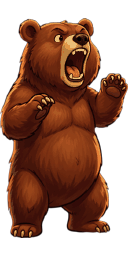
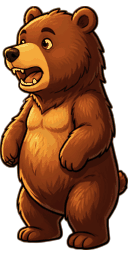
game-card-world v0.56.0: 인스펙터 오른쪽 아래 전신 포트레이트, 포트레이트 4장 다시 생성
카드 아이콘 프롬프트 문구 기반으로 구도만 전신, 왼쪽을 향하게. make_portrait.py 음영 문구를 카드와 같게, --flip 추가.

diff --git a/game-card-world/index.html b/game-card-world/index.html
@@ -262,14 +262,22 @@
   /* 인스펙터 (카드 아님) — 탭한 카드의 모든 정보. 가로가 긴 화면은 오른쪽, 세로가 긴 화면은 하단 */
   /* v0.46.0: 촘촘하게 — 머리 한 줄(그림·이름·태그) + 세 칸 [수치 | 상태 | 조합·출현]. 칸 자리는 모든 카드가 같음 */
   .insp{position:fixed;z-index:2147483050;top:0;right:0;bottom:0;width:var(--insp-w);
-    background:var(--surface);border-left:1px solid var(--hairline);overflow:auto;overscroll-behavior:contain;
+    background:var(--surface);border-left:1px solid var(--hairline);display:flex;flex-direction:column;overflow:hidden;   /* v0.56.0: 스크롤은 .i-body */
     padding:calc(env(safe-area-inset-top,0px) + 10px) calc(env(safe-area-inset-right,0px) + 10px) calc(env(safe-area-inset-bottom,0px) + 10px) 10px;
     color:var(--ink);font-size:11.5px;line-height:1.3;-webkit-user-select:none;user-select:none;}
   @media (orientation: portrait){
     .insp{top:auto;left:0;width:auto;height:var(--insp-h);border-left:none;border-top:1px solid var(--hairline);
       padding:6px 10px calc(env(safe-area-inset-bottom,0px) + 6px);}
   }
-  .i-empty{height:100%;display:flex;align-items:center;justify-content:center;text-align:center;color:var(--muted);font-weight:600;}
+  .i-empty{flex:1;height:100%;display:flex;align-items:center;justify-content:center;text-align:center;color:var(--muted);font-weight:600;}
+  /* 전신 포트레이트 (v0.56.0) — 인스펙터 오른쪽 아래. 정보는 .i-body 안에서 스크롤, 그림은 겹치지 않게 따로 자리 */
+  .i-body{flex:1;min-width:0;min-height:0;overflow:auto;overscroll-behavior:contain;}
+  .i-portrait{flex:none;align-self:flex-end;width:128px;height:256px;margin-top:6px;image-rendering:pixelated;pointer-events:none;-webkit-user-drag:none;}
+  .i-portrait.dying{filter:grayscale(1);}
+  @media (orientation: portrait){
+    .insp{flex-direction:row;}
+    .i-portrait{width:auto;height:100%;max-height:256px;margin:0 0 0 8px;}   /* 하단 막대 높이에 맞춰 줄임 */
+  }
   .i-head{display:flex;align-items:center;flex-wrap:wrap;gap:3px 6px;padding-bottom:5px;border-bottom:1px solid var(--hairline);}
   .i-icon{font-size:24px;line-height:1;flex:none;}
   .i-kind{font-size:10px;font-weight:800;letter-spacing:.04em;color:var(--brand-yellow);}
@@ -323,7 +331,7 @@
 (() => {
 'use strict';
 
-const VERSION = 'v0.55.0';
+const VERSION = 'v0.56.0';
 const STORE = 'card-world-rpg.v2';   // v0.7.0: 기사 상태 추가로 저장 초기화
 
 // ── 카드 정의 ─────────────────────────────────────────
@@ -382,6 +390,8 @@ function iconHtml(t, inline){
 const frameOf = d => d.kind === 'character' ? 'gold' : tagLevel(d, '장소') ? 'stone' : 'wood';
 // v0.52.0: 캐릭터·크리처는 모두 공격·방어·체력을 가짐 (0이어도 카드에 표시)
 const fighter = d => d.kind === 'character' || d.kind === 'creature';
+// 전신 포트레이트가 있는 카드 — 인스펙터 오른쪽 아래 (images/portrait/portrait_<id>.png, v0.56.0)
+const PORTRAITS = new Set(['knight', 'god', 'animal', 'bear']);
 const ICON_TOKEN = /⟦(\w+)⟧/g;
 const ic = t => `⟦${t}⟧`;
 // v0.53.0: 공격·방어·체력 그림 (이모지 ⚔ 🛡 ❤ 대신) — images/icon/ui_<k>.png
@@ -3100,7 +3110,10 @@ function renderInspector(){
   if (!S) return;
   const c = selId != null ? byId(selId) : null;
   if (selId != null && !c) selId = null;                     // 선택한 카드가 사라짐 → 비움
-  const html = c ? inspectorHtml(c) : '<div class="i-empty">카드를 선택하여 상세정보 보기</div>';
+  const dying = c && DEFS[c.type].kind === 'character' && statusOf(c).includes('빈사');
+  const portrait = c && PORTRAITS.has(c.type)
+    ? `<img class="i-portrait${dying ? ' dying' : ''}" src="images/portrait/portrait_${c.type}.png" alt="" draggable="false">` : '';
+  const html = c ? `<div class="i-body">${inspectorHtml(c)}</div>${portrait}` : '<div class="i-empty">카드를 선택하여 상세정보 보기</div>';
   if (html === inspKey) return;                               // 바뀐 게 있을 때만 다시 그림
   inspKey = html;
   insp.innerHTML = html;

diff --git a/game-card-world/tools/make_portrait.py b/game-card-world/tools/make_portrait.py
@@ -28,7 +28,8 @@ KINDS = {
     "character": {"subject": "single character", "bg": "white", "shade": True},
     "creature": {"subject": "single creature", "bg": "black", "shade": False},
 }
-SHADE = ", strong shading with deep defined shadows, high contrast between light and shadow, dramatic directional key light from the upper left"
+# 카드 아이콘(64px) 캐릭터와 같은 음영 문구 — 그림이 카드와 어긋나지 않게
+SHADE = ", strong shading with deep defined shadows, high contrast between light and shadow, dramatic directional key light from the upper left, shadowed side of the face clearly darker"
 BG_COLORS = {"black": "#000000", "white": "#ffffff white"}
 SUFFIX = (
     ", {subject}, centered composition, isolated, full body visible{feet}, clean readable silhouette, "
@@ -47,6 +48,7 @@ def main():
     ap.add_argument("--width", type=int, default=128)
     ap.add_argument("--height", type=int, default=256)
     ap.add_argument("--colors", type=int, default=64, help="팔레트 색 수 (기본 64)")
+    ap.add_argument("--flip", action="store_true", help="결과를 좌우 반전 (왼쪽을 향하게 맞출 때)")
     ap.add_argument("--no-style", action="store_true", help="그림체 머리말을 붙이지 않음")
     ap.add_argument("--force", action="store_true", help="같은 이름 파일이 있으면 덮어씀")
     ap.add_argument("--url", default="http://127.0.0.1:8188")
@@ -78,8 +80,13 @@ def main():
     outputs = run_workflow(a.url, wf)
     PORTRAIT_DIR.mkdir(parents=True, exist_ok=True)
     dest.write_bytes(fetch_image(a.url, outputs["save_portrait"]["images"][0]))
+    if a.flip:
+        from PIL import Image, ImageOps
+        ImageOps.mirror(Image.open(dest)).save(dest)
 
     opts = ["--kind", a.kind]
+    if a.flip:
+        opts.append("--flip")
     if a.bg and a.bg != kind["bg"]:
         opts += ["--bg", a.bg]
     if a.width != 128 or a.height != 256:

diff --git a/game-card-world/docs/아이콘_목록.md b/game-card-world/docs/아이콘_목록.md
@@ -424,35 +424,35 @@ an inanimate object only, no face, no eyes, no arms, no legs, no people, no crea
 <!-- icon:portrait_knight -->
 ### portrait_knight — 기사
 - 파일: `images/portrait/portrait_knight.png`
-- 생성: 2026-09-15 · seed `152229500644577` · 옵션 `--kind character`
+- 생성: 2026-09-15 · seed `14950907620239` · 옵션 `--kind character`
 ```
-full body standing pose of a silent weary knight, stoic expressionless face with tired determined eyes and a closed mouth, short messy dark hair, stubble and a small scar across the cheek, battered dented steel plate armor with scratches, a torn dark red scarf, standing upright facing three-quarter view
+full body standing pose of a silent weary knight, stoic expressionless face with tired determined eyes and a closed mouth, short messy dark hair, stubble and a small scar across the cheek, a torn dark red scarf and a dented steel collar at the neck, battered dented steel plate armor, facing left, body and face turned toward the left side of the image, three-quarter view
 ```
 <!-- /icon -->
 
 <!-- icon:portrait_bear -->
 ### portrait_bear — 곰
 - 파일: `images/portrait/portrait_bear.png`
-- 생성: 2026-09-15 · seed `274076164805632` · 옵션 `--kind creature`
+- 생성: 2026-09-15 · seed `274794366760701` · 옵션 `--kind creature`
 ```
-full body of a big wild brown bear standing up tall on its hind legs, thick shaggy dark brown fur, small round ears, open mouth roaring, front paws raised, three-quarter view
+full body of a big wild brown bear standing up on its hind legs, thick shaggy dark brown fur, small round ears, open mouth, facing left, body and face turned toward the left side of the image, side three-quarter view
 ```
 <!-- /icon -->
 
 <!-- icon:portrait_animal -->
 ### portrait_animal — 토끼
 - 파일: `images/portrait/portrait_animal.png`
-- 생성: 2026-09-15 · seed `16355201066106` · 옵션 `--kind creature`
+- 생성: 2026-09-15 · seed `39465835610041` · 옵션 `--kind creature`
 ```
-full body of a wild brown hare standing upright on its hind legs, long upright ears, twitching nose, fluffy white tail, soft brown and grey fur, big dark glossy eye, three-quarter view
+full body of a wild brown hare sitting alert, long upright ears, twitching nose, fluffy white tail, soft brown and grey fur, big dark glossy eye, facing left, body and face turned toward the left side of the image, side three-quarter view
 ```
 <!-- /icon -->
 
 <!-- icon:portrait_god -->
 ### portrait_god — 갓
 - 파일: `images/portrait/portrait_god.png`
-- 생성: 2026-09-15 · seed `62333766079226` · 옵션 `--kind character`
+- 생성: 2026-09-15 · seed `160546882380097` · 옵션 `--kind character`
 ```
-full body standing pose of an old deity with a kind heart, bald head with a wispy white beard, a solid opaque thin golden ring halo resting just above the head with no glow, warm gentle kind smile, soft friendly eyes, one finger raised as if sharing a helpful tip, worn white toga with frayed gold trim, simple sandals, standing upright facing three-quarter view
+full body standing pose of an old deity with a kind heart, bald head with a wispy white beard, a solid opaque thin golden ring halo resting just above the head with no glow, warm gentle kind smile, soft friendly eyes with a small playful twinkle, one finger raised beside the cheek as if sharing a helpful tip, worn white toga, simple sandals, facing left, body and face turned toward the left side of the image, three-quarter view
 ```
 <!-- /icon -->

diff --git a/game-card-world/docs/기능.md b/game-card-world/docs/기능.md
@@ -1,7 +1,7 @@
 # 기능 — 카드 월드 RPG
 
 > 설계 원문은 `card-world-rpg` 저장소의 `00_확정사항.md`. 이 문서는 프로토타입에 구현할 범위만 적는다.
-> **v0.51.0** — 구현은 했지만 **플레이 검증 전**이라 체크하지 않았다. 플레이로 확인한 항목부터 체크한다.
+> **v0.56.0** — 구현은 했지만 **플레이 검증 전**이라 체크하지 않았다. 플레이로 확인한 항목부터 체크한다.
 
 ## 0. 범위
 - 판을 깔기 전, 월드의 튜토리얼 구간만.
@@ -571,7 +571,8 @@
   - 판단: character = 강한 음영 + 흰 배경 + 머리부터 발끝까지 / creature = 검은 배경
   - 판단: 세로 1:2 칸이라 곰·토끼도 뒷다리로 선 자세
   - 판단: 갓은 후광 안쪽에 흰 배경이 남는 경우가 많아 후보 6장 중 안쪽이 투명한 것으로 확정
-  - 미구현: 인스펙터에 포트레이트 표시
+  - (v0.56.0) 인스펙터에 표시 (62절). 4장 다시 뽑음 — 카드 아이콘 프롬프트 문구를 그대로 가져와 구도만 전신으로, 왼쪽을 향하게
+  - 판단: 좌우가 틀리면 `--flip` 으로 결과를 좌우 반전 (이번 4장은 반전 없이 전부 왼쪽)
 
 ## 43. 카드 간소화와 인스펙터 (v0.37.0)
 - [ ] **인스펙터** (카드 아님) — 가로가 긴 화면은 오른쪽, 세로가 긴 화면은 하단에 늘 떠 있음
@@ -817,6 +818,16 @@
 - [ ] 골수 태그에 **합칠 수 있음** 추가 → 먹을 수 있음 · 빈사 치유 · 합칠 수 있음
 - [ ] 자루에 담기 가능 (합칠 수 있음 카드 규칙 그대로)
 
-## 62. 아직 없는 것
+## 62. 인스펙터 전신 포트레이트 (v0.56.0)
+- [ ] 기사·갓·토끼·곰을 선택하면 인스펙터 **오른쪽 아래**에 전신 포트레이트 (`images/portrait/portrait_<id>.png`)
+- [ ] 가로 화면(오른쪽 인스펙터): 정보 아래에 128×256 원래 크기로, 오른쪽 정렬
+- [ ] 세로 화면(하단 인스펙터): 정보 오른쪽에 막대 높이에 맞춰 줄여서
+- [ ] 빈사 캐릭터는 포트레이트도 무채색 (51절과 같게)
+  - 판단: 정보는 인스펙터 안의 본문 칸에서만 스크롤하고, 포트레이트는 따로 자리를 잡아 글자와 겹치지 않음
+  - 판단: 포트레이트가 없는 카드는 지금처럼 정보만
+  - 판단: 픽셀아트라 확대·축소 시 뭉개지지 않게(pixelated). 가로 화면에선 1배(128×256) 고정 — 인스펙터 폭(180~260px)에 2배는 안 들어감
+  - 판단: 포트레이트가 있는 카드 목록은 코드의 `PORTRAITS` (새로 만들면 여기에 id 추가)
+
+## 63. 아직 없는 것
 - 판, 출전, 전투, 체력 감소, 부활
 - container 여러 종류, party

diff --git a/game-card-world/docs/아이콘_생성.md b/game-card-world/docs/아이콘_생성.md
@@ -125,7 +125,9 @@ python tools/make_portrait.py --name portrait_bear --label 곰 --kind creature -
   - 512×1024 생성 → 배경 제거 → 대상 크기로 자르기 → `ImageResize+`(area, pad) 128×256 → 알파 분리 → 64색 → 알파 재결합
 - 결과: `images/portrait/portrait_<카드 id>.png` (토끼는 `portrait_animal`), 원본은 ComfyUI output `game-card-world/portrait_<id>_full_*.png`
 - `--kind character`: 강한 음영 + 흰 배경 + "머리부터 발끝까지" / `--kind creature`: 검은 배경. `--bg` 로 배경만 바꿀 수 있음
-- 프롬프트는 **전신·서 있는 자세** — 세로 1:2 칸이라 네 발 동물도 뒷다리로 선 자세로 (`standing up on its hind legs`)
+- **카드 아이콘 프롬프트에서 출발** — `아이콘_목록.md` 의 `card_<id>` 프롬프트에서 생김새·표정·옷차림 문구를 그대로 가져오고, 구도만 전신으로 바꾼다 (얼굴 초상 → `full body standing pose of ...`). 음영 문구도 카드와 같음 → 카드 그림과 어긋나지 않음
+- **왼쪽을 향하게** — `facing left, body and face turned toward the left side of the image` 를 넣는다. 그래도 오른쪽을 보면 `--flip` (결과를 좌우 반전)
+- 프롬프트는 **전신** — 세로 1:2 칸이라 네 발로 달리는 동물은 뒷다리로 선 자세로 (`standing up on its hind legs`). 앉은 토끼는 그대로 들어감
 - 후광·고리처럼 배경이 갇히는 모양은 안쪽에 흰 배경이 남기 쉽다 → seed 만 바꿔 후보를 여러 장 뽑고 안쪽이 투명한 것으로 확정 (갓: 6장 중 2장만 깨끗했음)
 - 옵션: `--seed`, `--width`/`--height` (기본 128/256), `--colors` (기본 64), `--no-style`, `--force`
 - 기록은 아이콘과 같은 `아이콘_목록.md` 에 자동
